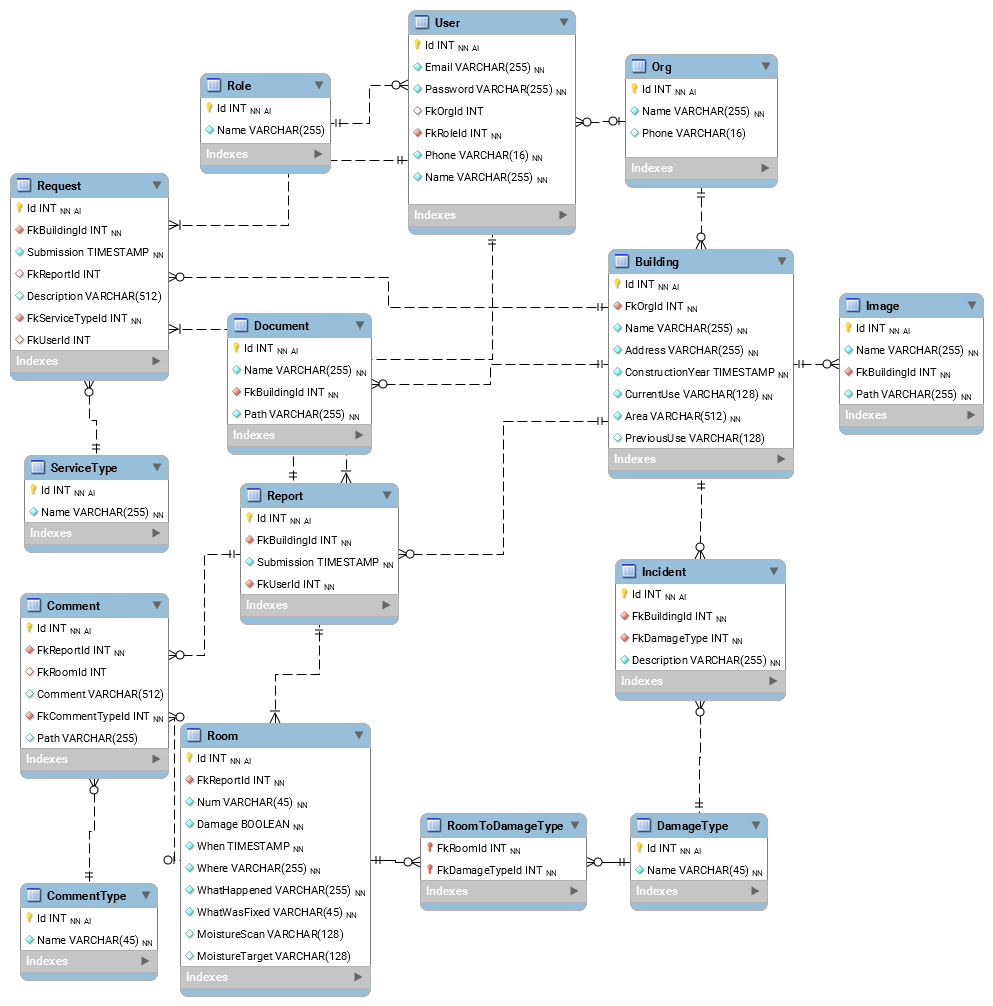
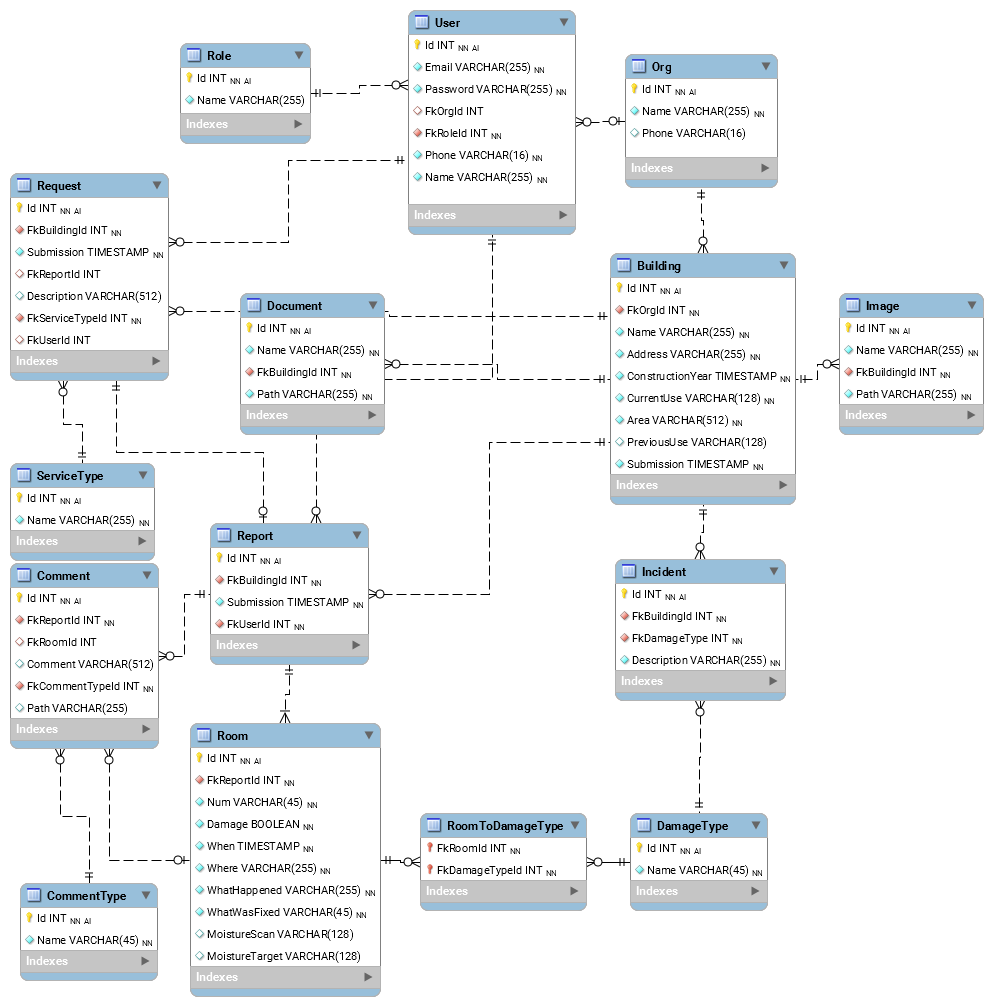
Updated Database and Model

diff --git a/src/model/Building.java b/src/model/Building.java
@@ -16,6 +16,7 @@ public class Building {
     private String previousUse;
     private String area;
     private Timestamp constructionYear;
+    private Timestamp submission;
     private Org org;
     private HashMap<Integer,Request> requests;
     private HashMap<Integer,Incident> incidents;
@@ -79,6 +80,14 @@ public class Building {
 
     public void setConstructionYear(Timestamp constructionYear) {
         this.constructionYear = constructionYear;
+    }
+
+    public Timestamp getSubmission() {
+        return submission;
+    }
+
+    public void setSubmission(Timestamp submission) {
+        this.submission = submission;
     }
 
     public Org getOrg() {
